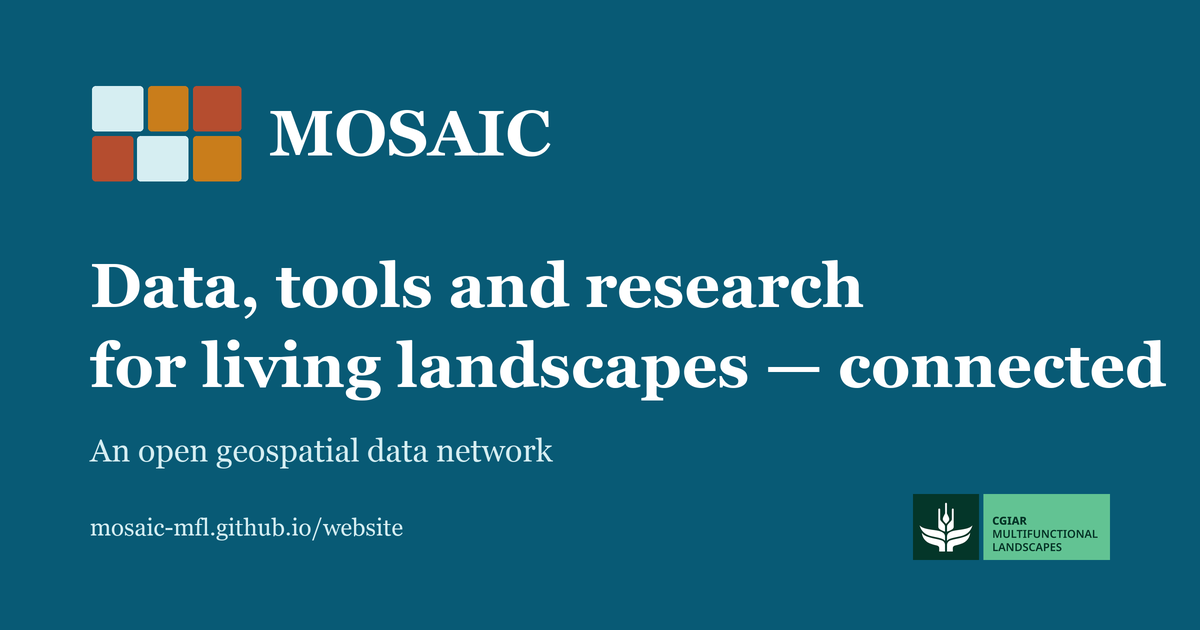
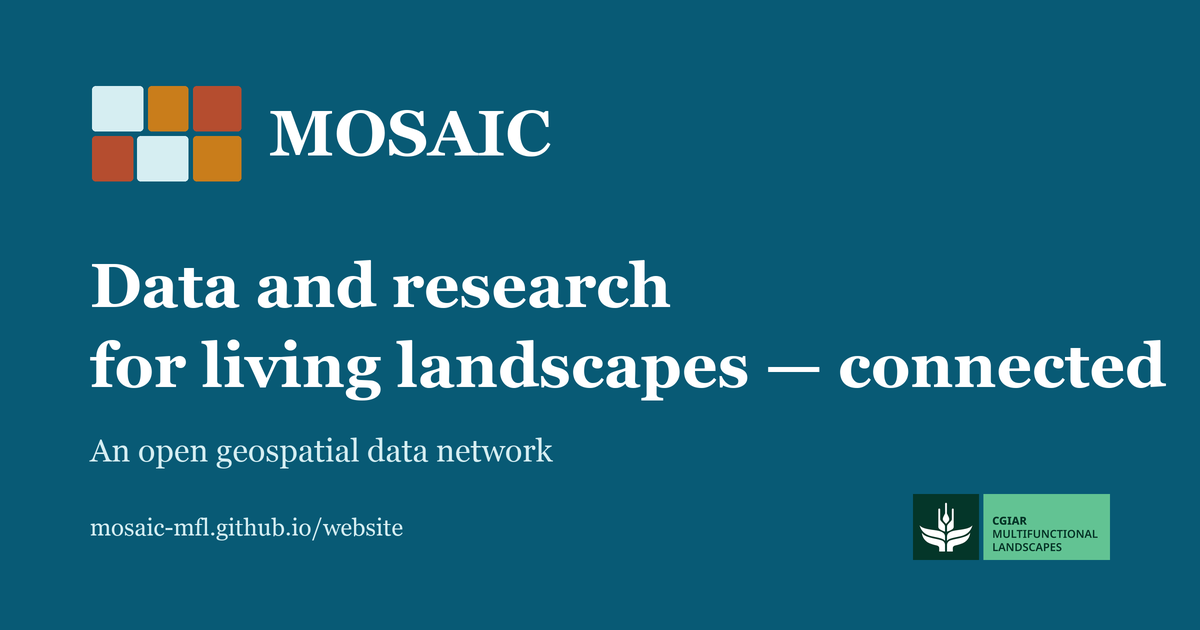
"Data and research" copy; Landscapes page halved; data coverage as a ring (#58)
Copy
- "data, tools and research" becomes "data and research" in the home
  hero and audience tiles, the footer, About, the default description
  and the share image.

Landscapes page: 923 KB -> 470 KB (302 -> 145 KB gzip)
- The world's land and the country outlines are drawn once and reused
  by both maps.
- Rivers, lakes and place names move to /landscapes/map-detail.json,
  fetched the first time a landscape is opened. This is the site's one
  request after load, to its own file; without it the map still shows
  land, countries, the outline and the pin.

Data coverage
- A ring for themes with data, a figure for open-access datasets, a
  legend, and the missing themes as a fold-out list. Replaces the
  squares.

No new dependency.

Changed region(s): [[0.185, 0.3921, 0.74, 0.5127]]

diff --git a/frontend/src/pages/landscapes/map-detail.json.ts b/frontend/src/pages/landscapes/map-detail.json.ts
@@ -1,0 +1,13 @@
+/* Rivers, lakes and place names for the Landscapes page's locator map, as one
+   file next to the page. The page asks for it the first time a landscape is
+   opened, so the 300 KB of detail is not paid for by a visitor who only looks
+   at the start screen. It is the site's own file, built with it — the one
+   request the site makes after a page has loaded. Without it the map still
+   works: land, countries, the landscape outline and the pin are in the page. */
+import type { APIRoute } from 'astro'
+import labels from '../../../data/landscape_labels.json'
+
+export const GET: APIRoute = () =>
+  new Response(JSON.stringify({ places: labels.places, rivers: labels.rivers, lakes: labels.lakes }), {
+    headers: { 'Content-Type': 'application/json; charset=utf-8' },
+  })
